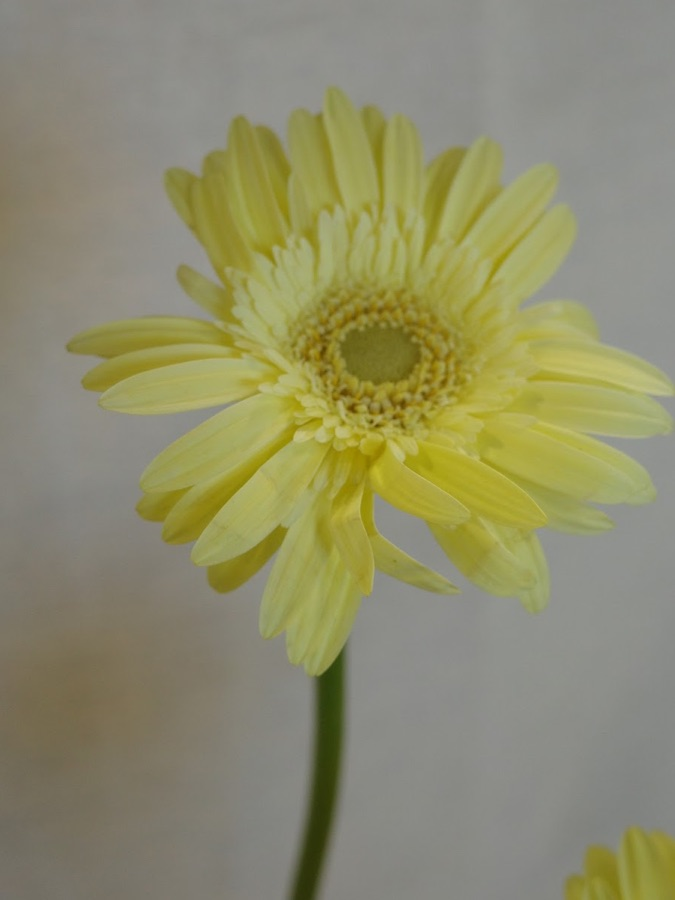
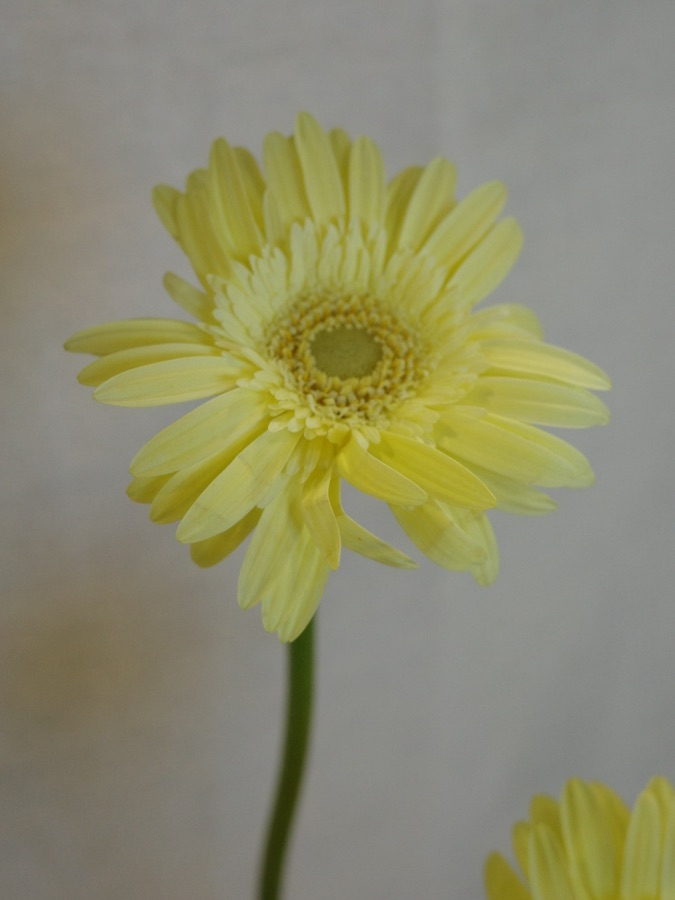
補小太陽黃、白乒乓菊、白鬱金香照片，縮小顏色按鈕
- 新增 images/pingpong-white.jpg、images/tulip-white.jpg，更換 gerbera-yellow.jpg
- 顏色按鈕高度 34→26px、色點 24→16px

Changed region(s): [[0.0933, 0.0933, 1.0, 1.0], [0.7156, 0.84, 1.0, 1.0]]

diff --git a/app.js b/app.js
@@ -15,7 +15,7 @@ const FLOWERS = [
   { id: "thistle", name: "白色薊花", en: "White Thistle", cat: "主花", meaning: "高潔、獨立",
     colors: [{ id: "white", label: "白", swatch: "#E9ECE4", price: 250, img: null }] },                          // 450/5支
   { id: "tulip", name: "白鬱金香", en: "White Tulip", cat: "主花", meaning: "純潔的愛、體貼",
-    colors: [{ id: "white", label: "白", swatch: W, price: 150, img: null }] },                                   // 500/10支
+    colors: [{ id: "white", label: "白", swatch: W, price: 150, img: "images/tulip-white.jpg" }] },                                   // 500/10支
   { id: "lisianthus", name: "白桔梗", en: "Lisianthus", cat: "主花", meaning: "純潔、真誠不變的愛",
     colors: [{ id: "white", label: "白", swatch: W, price: 100, img: "images/lisianthus-white.jpg" }] },           // 300/10支
   { id: "gerbera", name: "小太陽", en: "Mini Gerbera", cat: "主花", meaning: "熱情、有朝氣，帶來好心情",
@@ -26,7 +26,7 @@ const FLOWERS = [
   { id: "anthurium", name: "火鶴", en: "Anthurium", cat: "主花", meaning: "熱情、大展宏圖",
     colors: [{ id: "std", label: "當日色", swatch: "#DCE5C8", price: 80, img: "images/anthurium.jpg" }] },         // 15/支
   { id: "pingpong", name: "乒乓菊", en: "Ping Pong Mum", cat: "主花", meaning: "圓滿、純真",
-    colors: [{ id: "white", label: "白", swatch: "#F4F1E4", price: 80, img: null }] },                            // 200/10支
+    colors: [{ id: "white", label: "白", swatch: "#F4F1E4", price: 80, img: "images/pingpong-white.jpg" }] },                            // 200/10支
   { id: "mum", name: "小染色菊", en: "Dyed Daisy Mum", cat: "主花", meaning: "開朗、長久的祝福",
     colors: [{ id: "dyed", label: "染色", swatch: "#9B2D7F", price: 80, img: "images/mum-dyed.jpg" }] },           // 100/5支
   { id: "scabiosa", name: "松蟲草", en: "Scabiosa", cat: "主花", meaning: "思念、不變的心",

diff --git a/styles.css b/styles.css
@@ -82,10 +82,10 @@ button:focus-visible, a:focus-visible { outline: 3px solid var(--sun); outline-o
 .card .zh { margin: 0; font-weight: 900; font-size: 18px; line-height: 1.3; }
 .mean { margin: 0; font-size: 13px; color: var(--ink); line-height: 1.5; }
 .tag { display: inline-block; background: var(--blush); color: var(--ink); font-size: 11px; font-weight: 700; padding: 0 7px; border-radius: 6px; margin-right: 6px; vertical-align: 1px; }
-.tiles { display: flex; flex-wrap: wrap; gap: 6px; margin-top: 2px; }
-.tile { position: relative; display: inline-flex; align-items: center; gap: 6px; border: 1.5px solid var(--line); background: var(--card); border-radius: 999px; padding: 3px 11px 3px 4px; font-size: 13px; min-height: 34px; }
+.tiles { display: flex; flex-wrap: wrap; gap: 5px; margin-top: 2px; }
+.tile { position: relative; display: inline-flex; align-items: center; gap: 4px; border: 1.5px solid var(--line); background: var(--card); border-radius: 999px; padding: 2px 9px 2px 3px; font-size: 12px; min-height: 26px; }
 .tile[aria-checked="true"] { border-color: var(--ink); background: var(--sun); font-weight: 700; }
-.sw { width: 24px; height: 24px; border-radius: 50%; border: 1.5px solid rgba(0, 0, 0, .12); }
+.sw { width: 16px; height: 16px; border-radius: 50%; border: 1.5px solid rgba(0, 0, 0, .12); }
 .badge { position: absolute; top: -8px; right: -6px; min-width: 20px; height: 20px; padding: 0 5px; border-radius: 10px; background: var(--ink); color: var(--on-olive); font-family: var(--f-latin); font-size: 10.5px; display: grid; place-items: center; }
 .buy { margin-top: auto; padding-top: 8px; display: flex; align-items: center; justify-content: space-between; gap: 8px; flex-wrap: wrap; }
 .price { margin: 0; }
